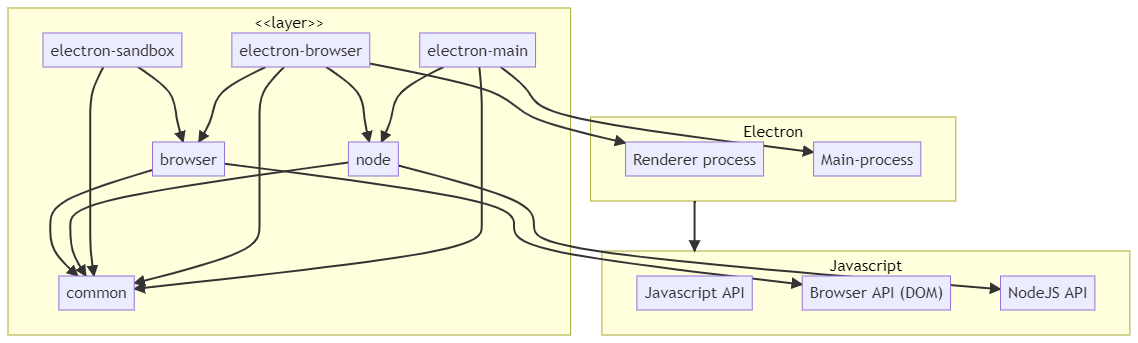
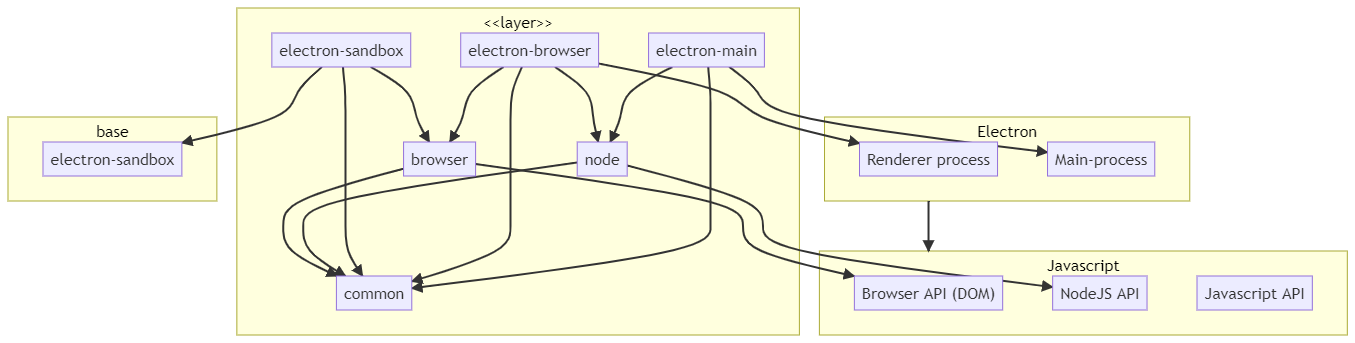
feat: Write Theia editor section

diff --git a/chapters/3-background/2-technologies/2-editors.tex b/chapters/3-background/2-technologies/2-editors.tex
@@ -9,10 +9,10 @@ Visual Studio Code (\gls{VSCode}) is a text editor and \acrfull{IDE} created by
 Microsoft. The VSCode editor is based on the \gls{open source}\footnote{Source for VSCode is available at \href{https://github.com/microsoft/vscode}{https://github.com/microsoft/vscode}} software (OSS) called \emph{VS Code Project}.~\cite{helmingEclipseTheiaIDE2019} 
 The VSCode editor has Microsoft-specific customizations, which makes it slightly different from the OSS project.~\cite{microsoftMicrosoftVscode2020} (This is analogous to the relationship between the \gls{open source} Chromium and the proprietary Google Chrome.)
 
-\begin{figure}[htbp]  % order of priority: h here, t top, b bottom, p page
+\begin{figure}[htbp]
   \centering
   \includegraphics[width=\textwidth]{figures/vscode-ui}
-  \caption[Visual Studio Code User Interface]{The user interface of Visual Studio Code.\cite{microsoftVisualStudioCode2020}}\label{fig:vscode-ui}
+  \caption[Visual Studio Code User Interface]{The user interface of Visual Studio Code, with annotations for the different components (\emph{A-E}).\cite{microsoftVisualStudioCode2020}}\label{fig:vscode-ui}
 \end{figure}
 
 \paragraph*{Intended use} Primarily an editor for textual programming languages.
@@ -32,12 +32,12 @@ The actual text editor in \gls{VSCode} is called \emph{Monaco}, and is available
 
 
 \begin{figure}[htbp]  % order of priority: h here, t top, b bottom, p page
-  \centering
+  \centering %TODO: Fix the bad mermaid diagram layout
   \includegraphics[width=\textwidth]{figures/vscode-component-architecture}
   \caption[VSCode component Architecture]{The internal architecture of each component in VSCode. The \texttt{<<layer>>} label represents each of the layers in \cref{fig:vscode-layers-architecture}, like \emph{base} or \emph{platform}. Every layer is organized by runtime dependencies.~\cite{benjaminpaseroSourceCodeOrganization2020}}\label{fig:vscode-component-architecture}
 \end{figure}
 
-\begin{figure}[htbp]  % order of priority: h here, t top, b bottom, p page
+\begin{figure}[htbp]
   \centering
   \includegraphics[width=2cm]{figures/vscode-layers-architecture}
   \caption[VSCode Layers]{The internal layers that VSCode is separated into.~\cite{benjaminpaseroSourceCodeOrganization2020}}\label{fig:vscode-layers-architecture}
@@ -49,10 +49,18 @@ The actual text editor in \gls{VSCode} is called \emph{Monaco}, and is available
 
 \paragraph*{What it is}
 \Gls{Theia} is an editor like \gls{VSCode}, but designed from the start to work in web browsers.
+A screenshot is shown in \cref{fig:theia-user-interface}; notice how it is almost identical to \gls{VSCode}.
 The project was originally started by TypeFox, and then donated to the Eclipse Foundation.
 It is free and fully \gls{open source}\footnote{Source for Theia is available at \href{https://github.com/eclipse-theia/theia/}{https://github.com/eclipse-theia/theia/}}.
 \Gls{Theia} is based on some of the same components as \gls{VSCode}, and uses Monaco as well.
 The main uses of Theia now is as an editor for workspace software like \gls{Che} and \gls{Gitpod}.
+Theia supports VSCode extensions, but not all of the \acrshortpl{API} in VSCode are implemented yet\footnote{A table of \acrshort{API} support is provided at \href{https://che-incubator.github.io/vscode-theia-comparator/status.html}{https://che-incubator.github.io/vscode-theia-comparator/status.html}.}.
+
+\begin{figure}[htbp]
+  \centering
+  \includegraphics[width=\textwidth]{figures/theia-screenshot.png}
+  \caption[Theia User Interface]{A screenshot of the Theia user interface.~\cite{eclipsefoundationEclipsetheiaTheia2020}}\label{fig:theia-user-interface}
+\end{figure}
 
 \paragraph*{Intended use}
 \Gls{Theia} was created to be a framework for creating custom and
@@ -62,9 +70,9 @@ white-labeled \acrshortpl{IDE} and tools. Theia itself was not an IDE.~\cite{hel
 The architecture of Theia is similar to \gls{VSCode}.
 The biggest difference is in the runtime.
 \Gls{Theia} is split into a backend and frontend process. 
-The backend can run remotely. 
+The backend \textit{could} run remotely, or locally. 
 The frontend is \gls{Electron} or a browser.
-The backend and frontend communicate with \gls{JSON-RPC} over \glspl{WebSocket} or \gls{REST}/HTTP.
+The backend and frontend communicate with \gls{JSON-RPC} over \glspl{WebSocket} or \gls{REST}/HTTP\@. 
 Both the frontend and backend source codes are heavily architected around
 \emph{dependency injection}.
 The backend runs an \texttt{ExpressJs} web server which serves code to the frontend (see \cref{fig:theia-communication}).~\cite{typefoxArchitectureOverview}
@@ -76,21 +84,49 @@ To support different programming languages, the backend talks over the \acrfull{
 One backend process serves one workspace/user.
 Multiple clients can connect, but they will all share the same workspace.~\cite{MultiLanguageIDEImplemented2017}
 
-\begin{figure}[htbp]  % order of priority: h here, t top, b bottom, p page
+\begin{figure}[htbp]
   \centering
   \includegraphics[width=4cm]{figures/theia-api.png}
   \caption[Theia frontend and backend communication]{Theia serves the frontend with ExpressJs and communicates between the frontend and backend with JSON-RPC.}\label{fig:theia-communication}
 \end{figure}
 
-\paragraph*{Architecture --- modules}
+\paragraph*{Architecture --- components}
+\Gls{Theia} uses a extension oriented design.
+This means that almost all functionality is provided as an extension.
+For example, the \acrshortpl{API} for user-installable plugins are provided as an extension. %TODO: Add reference to extensions/plugins sections
+The \emph{Monaco} editor from \gls{VSCode} is also provided by an extension.
+The main components of Theia is shown in \cref{fig:theia-components}.
+(Note that this diagram is from 2017 and could be outdated).
+The components are separated into frontend, backend and external (blue).
+External resources could be processes for language compilation, package managers, terminal shells etc..
 
+Of particular interest is the \texttt{Extensions} component with \texttt{Inversify.js}. This is the dependency injection mechanism which loads other extensions into Theia. (Also note that the \texttt{Plugin} extension for \gls{VSCode} extensions is missing in this diagram. That component was added later by RedHat\footnote{RedHat chose to use Theia in \gls{Che}, and wanted plugins that could be installed by users during run-time. They opted for the \gls{VSCode} extension mechanism for this.}.)
+
+\begin{figure}[htbp]  % order of priority: h here, t top, b bottom, p page
+  \centering
+  \includegraphics[width=\textwidth]{figures/Multi-Language IDE implemented in JS Scope and Architecture}
+  \caption[Theia module Architecture]{The main components in Theia. Some components have third party libraries, languages or runtimes listed under their component name, as examples. The figure is from a design document made in 2017, and could be outdated. (The author is unknown, but assumed to be a TypeFox employee. The document is linked to on the official Theia website).~\cite{MultiLanguageIDEImplemented2017}}\label{fig:theia-components}
+\end{figure}
+
+\paragraph*{Architecture --- code organization}
+Every extension in Theia is organized based on the runtime dependencies.
+This is similar to how \gls{VSCode} does it.
+See \cref{fig:theia-organization}. The main difference is \texttt{electron-sandbox} in \gls{VSCode} and \texttt{electron-main} in Theia.
+Every Theia extension can also provide two entrypoints: \texttt{frontend} and \texttt{backend}. This allows extensions to provide different code for the different parts of Theia. %TODO: Add cref to theia extensions
+
+\begin{figure}[htbp]  % order of priority: h here, t top, b bottom, p page
+  \centering
+  \includegraphics[width=\textwidth]{figures/theia-code-organization}
+  \caption[Theia code organization]{The code in Theia extensions are organized based on the dependency on runtime \acrshortpl{API}. The box named \texttt{theia} represents an extension in Theia.~\cite{antonkosyakovCodeOrganization2019}}\label{fig:theia-organization}
+\end{figure}
 
 % What does it do?
 % Who made it?
 % Architecture
 
-\subsubsection{Eclipse IDE}
+\subsubsection{Eclipse IDE}\label{sec:eclipse-ide}
 %TODO: write
 % What does it do?
 % Who made it?
 % Architecture
+
